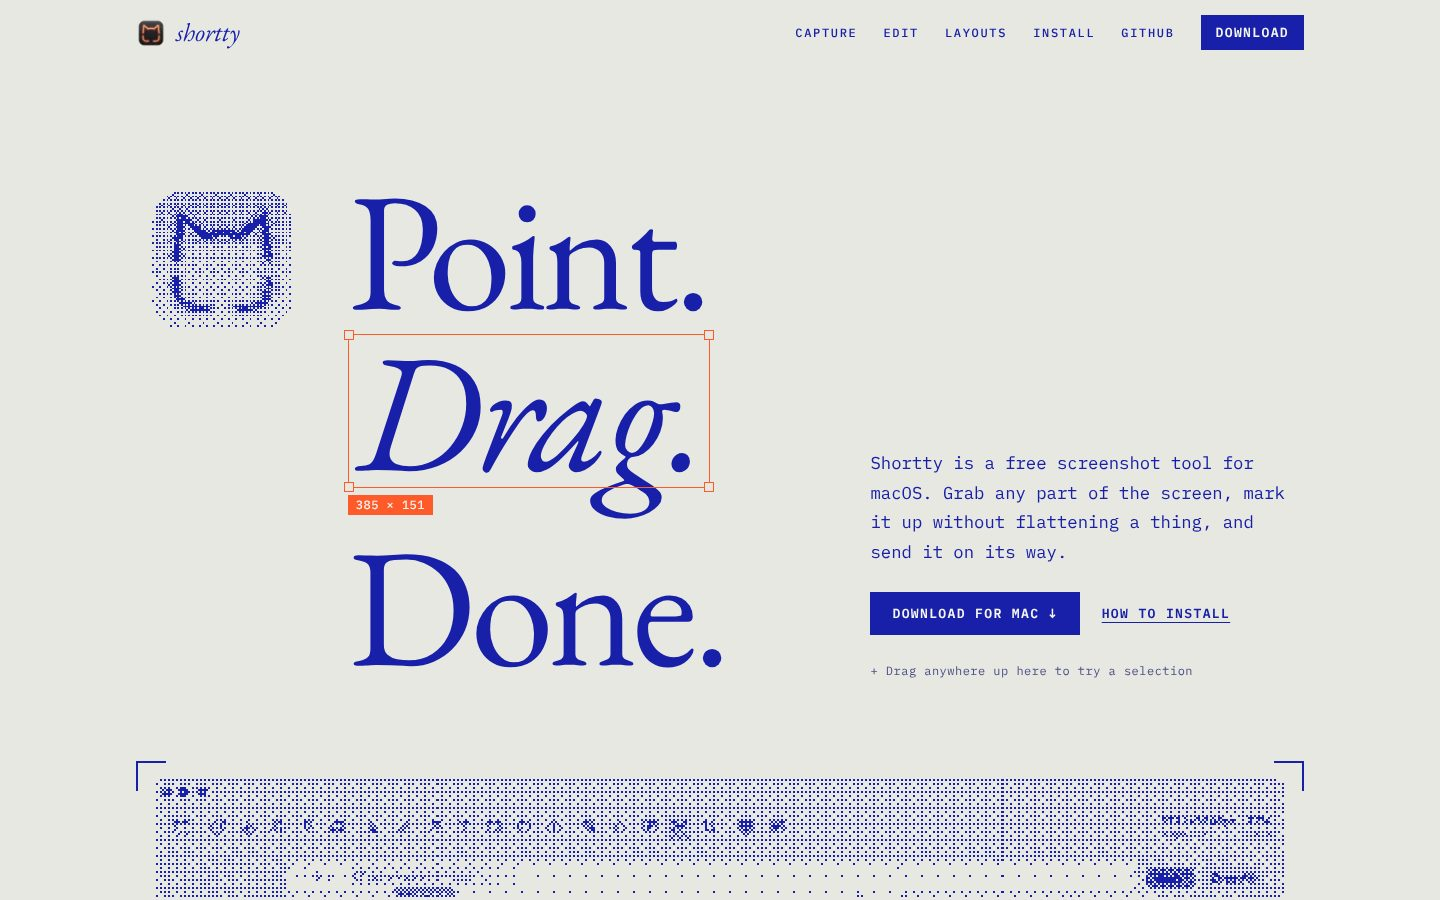
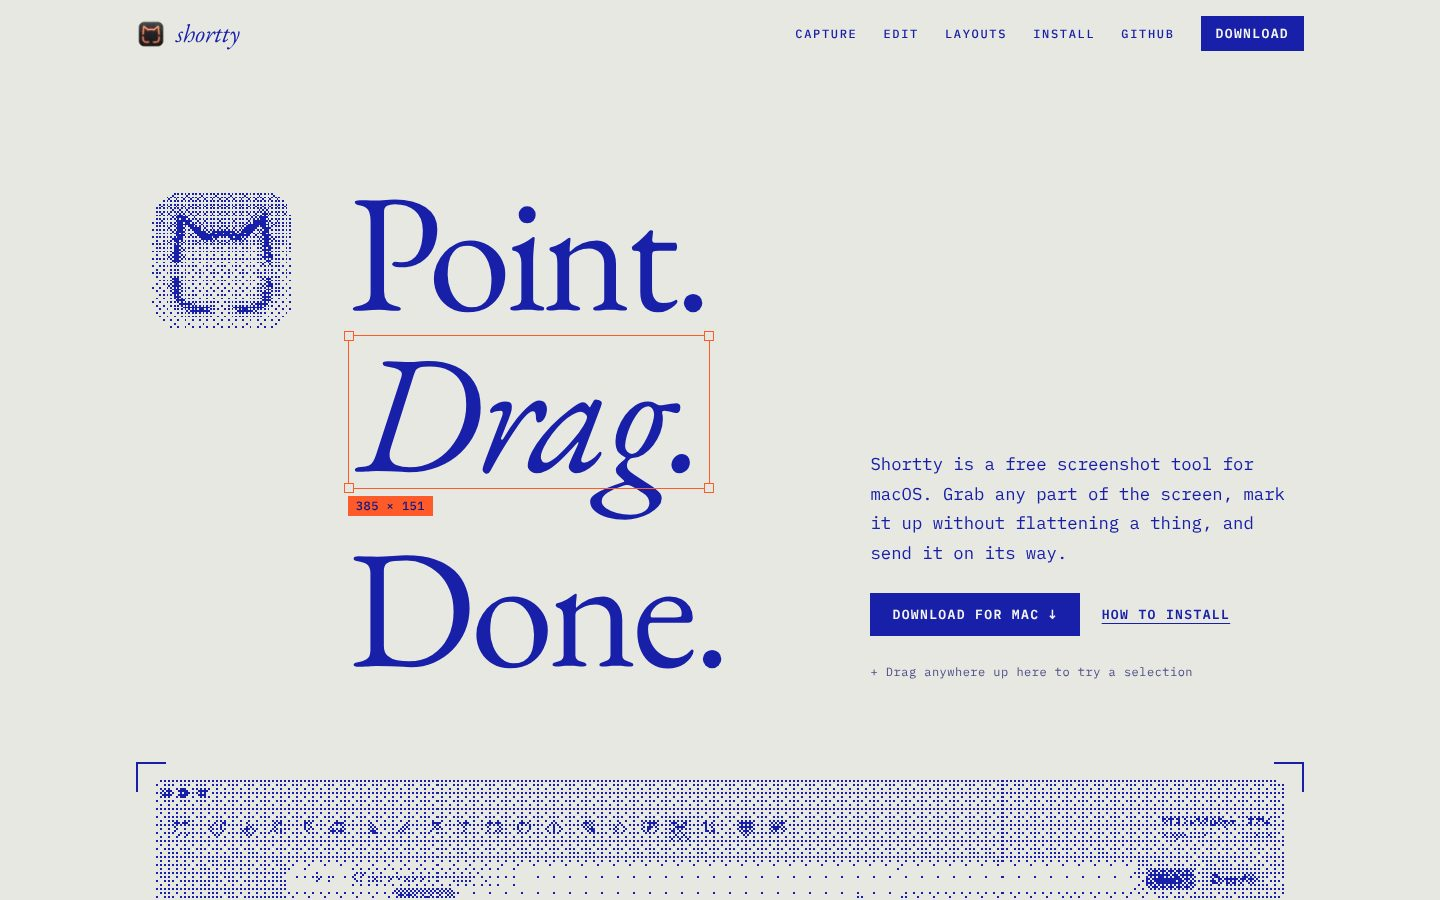
Fix: wrap install commands so they don't run under the Copy button; readable size tag
Claude-Session: https://claude.ai/code/session_019xH8RKv4cB1Pgr3WMhaeZY

diff --git a/src/styles/global.css b/src/styles/global.css
@@ -156,7 +156,7 @@ code, pre { font-family: var(--mono); }
   font-style: normal;
   letter-spacing: 0.04em;
   background: var(--accent);
-  color: var(--white);
+  color: var(--primary-deep);
 }
 
 @media (prefers-reduced-motion: reduce) {
